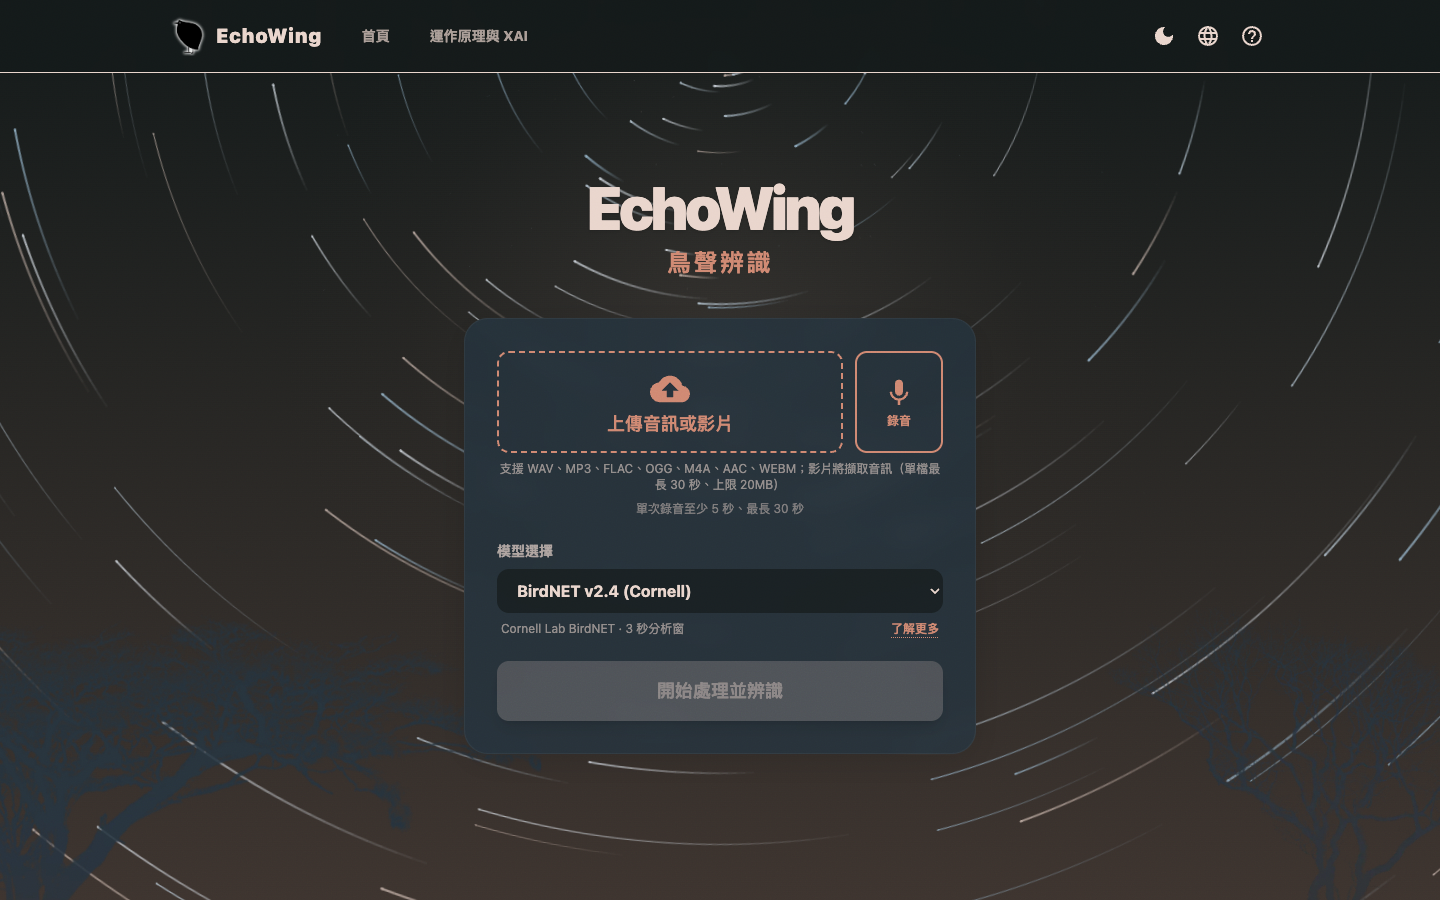
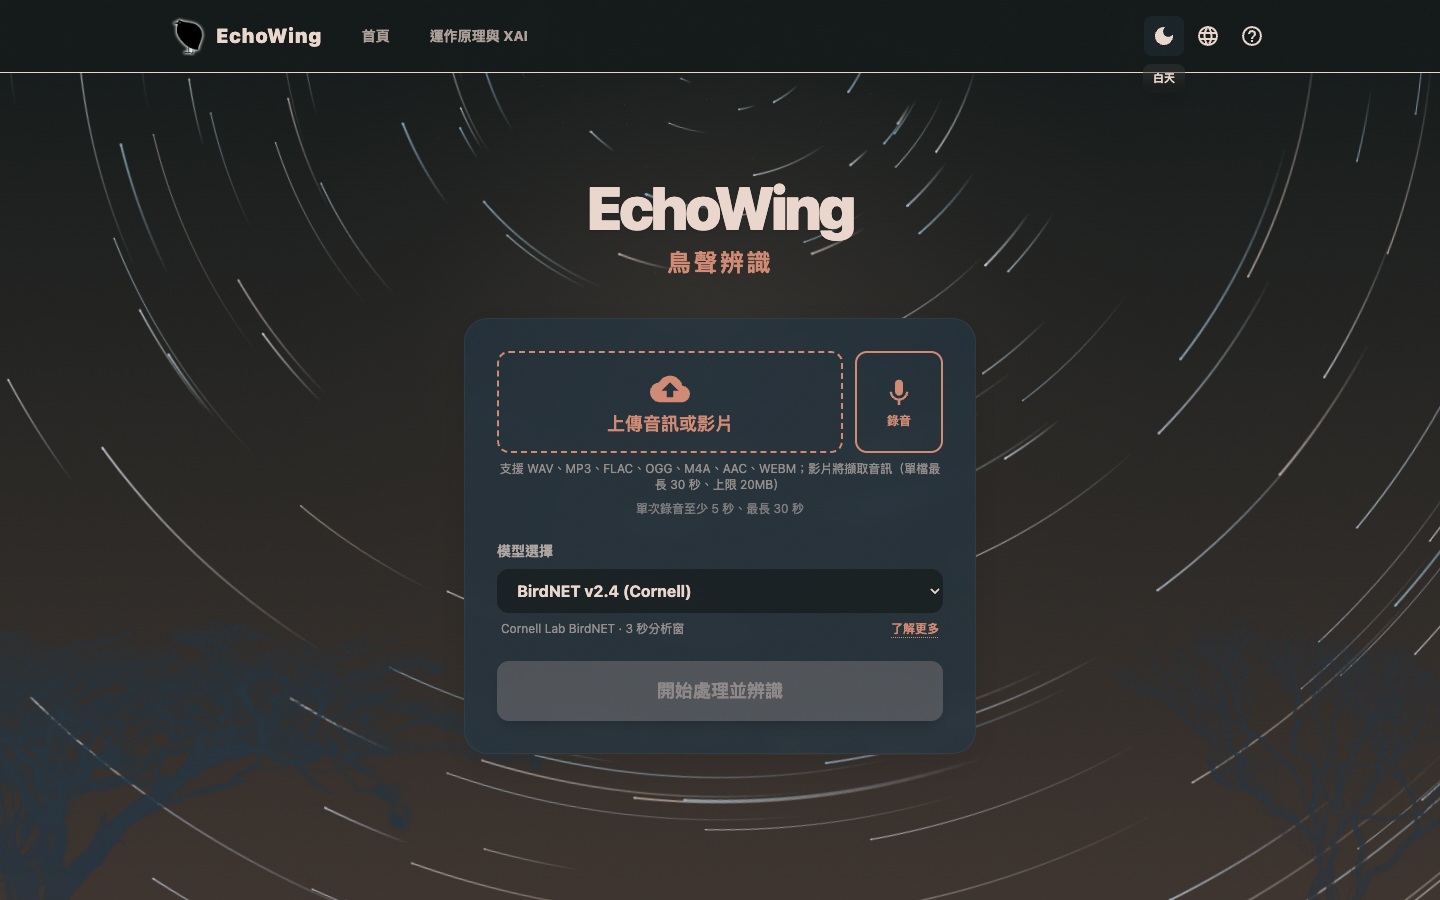
style: toggle true dark theme via header button for screenshot, and zoom in search box element in slide 2 substep overlay

diff --git a/index.html b/index.html
@@ -294,8 +294,8 @@
       left: 0;
       width: 1920px;
       height: 1080px;
-      background: rgba(244, 237, 228, 0.96); /* Warm paper color with high opacity */
-      backdrop-filter: blur(15px); /* Strong blur */
+      background: rgba(244, 237, 228, 0.4); /* Low opacity to keep Slide 2 visible */
+      backdrop-filter: blur(15px); /* Strong blur on the background */
       display: flex;
       justify-content: center;
       align-items: center;
@@ -308,17 +308,28 @@
       opacity: 1;
       pointer-events: auto;
     }
-    .search-giant-text {
-      font-size: 160px;
-      font-weight: 900;
-      color: var(--c-brand);
-      letter-spacing: 16px;
+    .search-giant-box {
+      background: rgba(255, 253, 251, 0.96); /* Highly opaque card background */
+      border: 5px solid var(--c-brand); /* Thick border matching the mockup */
+      border-radius: 24px;
+      padding: 32px 64px;
+      display: flex;
+      align-items: center;
+      gap: 28px;
+      box-shadow: 0 25px 60px rgba(192, 108, 83, 0.2), 0 5px 15px rgba(0,0,0,0.05);
+      
+      /* Animation starts from scale(0.1) and opacity: 0 */
       opacity: 0;
       transform: scale(0.1);
       transition: transform 0.8s cubic-bezier(0.34, 1.56, 0.64, 1), opacity 0.6s ease;
-      text-shadow: 0 10px 40px rgba(192, 108, 83, 0.15);
     }
-    #search-giant-overlay.active .search-giant-text {
+    .search-giant-box span {
+      font-size: 56px;
+      font-weight: 900;
+      color: var(--c-brand);
+      letter-spacing: 2px;
+    }
+    #search-giant-overlay.active .search-giant-box {
       opacity: 1;
       transform: scale(1);
     }
@@ -633,7 +644,13 @@
           
           <!-- Full-screen giant search overlay -->
           <div id="search-giant-overlay" onclick="closeSearchOverlay(event)">
-            <div class="search-giant-text">可搜尋平台</div>
+            <div class="search-giant-box">
+              <svg width="64" height="64" viewBox="0 0 24 24" fill="none" stroke="var(--c-brand)" stroke-width="3" stroke-linecap="round" stroke-linejoin="round">
+                <circle cx="11" cy="11" r="8"></circle>
+                <line x1="21" y1="21" x2="16.65" y2="16.65"></line>
+              </svg>
+              <span>可搜尋平台</span>
+            </div>
           </div>
           
         </div>